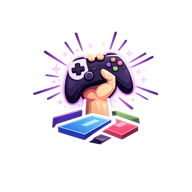
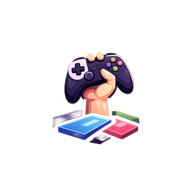
Lock status labels, trim themes, fix void exit
Status label: "Now Playing" -> "Playing Now". Reads more
natural in the cycle Backlog > Up Next > Playing Now >
Completed > Moved On.

Playing status icon: fire -> play triangle. The fire emoji
was colliding with the deep-cut time tier and didn't
communicate "active game" the way the play triangle does.

Theme picker trimmed from 13 to 8: kept dark, light, 80s,
90s, future, dino, cozy, void. Commented out weird and
ultra (stashed for later -- we still like ultra), tropical,
campfire, and minimal. CSS retained so we can bring any of
them back without a rewrite.

Void theme exit: the settings gear now renders in high-
contrast white when .theme-void is active, so users can
always find the way out. Do not let the abyss stare back.

App icon: swapped apple-icon and PWA icons to the
background-removed logomark (inventoryfull-logomark-alpha.png)
produced via rembg. Clean transparency, purple glow preserved.

diff --git a/components/SettingsMenu.tsx b/components/SettingsMenu.tsx
@@ -210,6 +210,7 @@ export default function SettingsMenu() {
     <div className="relative">
       <button
         onClick={() => setOpen(!open)}
+        data-settings-trigger="true"
         className="p-2 min-h-[44px] min-w-[44px] flex items-center justify-center rounded-lg text-text-dim hover:text-text-muted transition-colors"
         title="Settings"
       >
@@ -280,19 +281,23 @@ export default function SettingsMenu() {
                   <p className="text-sm text-text-faint font-[family-name:var(--font-mono)]">Theme</p>
                   <div className="flex flex-wrap gap-1">
                     {[
+                      // Active theme roster. CSS for hidden themes still lives
+                      // in globals.css — stashed for later, not deleted. When
+                      // bringing one back, add it here and it's live again.
                       { value: 'dark', label: '🌙 Dark' },
                       { value: 'light', label: '☀ Light' },
                       { value: '80s', label: '🌆 80s' },
                       { value: '90s', label: '🚧 90s' },
                       { value: 'future', label: '🔮 Future' },
                       { value: 'dino', label: '🦕 Dino' },
-                      { value: 'weird', label: '👁 Weird' },
-                      { value: 'ultra', label: '⚡ ULTRA' },
-                      { value: 'void', label: '🫥 Void' },
                       { value: 'cozy', label: '☕ Cozy' },
-                      { value: 'minimal', label: '- Minimal' },
-                      { value: 'tropical', label: '🌴 Tropical' },
-                      { value: 'campfire', label: '🔥 Campfire' },
+                      { value: 'void', label: '🫥 Void' },
+                      // Hidden for now (CSS retained in globals.css):
+                      //   { value: 'weird', label: '👁 Weird' },
+                      //   { value: 'ultra', label: '⚡ ULTRA' },       // stashed — Brady likes it, bring back later
+                      //   { value: 'minimal', label: '- Minimal' },
+                      //   { value: 'tropical', label: '🌴 Tropical' },
+                      //   { value: 'campfire', label: '🔥 Campfire' },
                     ].map((opt) => (
                       <button
                         key={opt.value}

diff --git a/app/globals.css b/app/globals.css
@@ -1653,6 +1653,22 @@ button:active:not(:disabled) {
   border-color: #444444 !important;
 }
 
+/* Void: the settings gear is the exit hatch. Keep it high-contrast so users
+   can always find their way back out. "Do not let the abyss stare back."   */
+.theme-void header button[data-settings-trigger="true"],
+.theme-void button[data-settings-trigger="true"] {
+  color: #ffffff !important;
+  border-color: #ffffff !important;
+  opacity: 0.95 !important;
+}
+.theme-void header button[data-settings-trigger="true"]:hover,
+.theme-void button[data-settings-trigger="true"]:hover {
+  color: #ffffff !important;
+  border-color: #ffffff !important;
+  background: rgba(255, 255, 255, 0.06) !important;
+  opacity: 1 !important;
+}
+
 /* Void: everything fades except the action */
 .theme-void h1 {
   color: #666666 !important;

diff --git a/lib/constants.ts b/lib/constants.ts
@@ -43,7 +43,7 @@ export const STATUS_CONFIG: Record<GameStatus, {
 }> = {
   buried: { label: 'Backlog', icon: '📚', asciiIcon: '[=]', color: '#64748b', bg: '#1e293b' },
   'on-deck': { label: 'Up Next', shortLabel: 'Next', icon: '🎯', asciiIcon: '>>>', color: '#38bdf8', bg: '#082f49' },
-  playing: { label: 'Now Playing', shortLabel: 'Playing', icon: '🔥', asciiIcon: '(~)', color: '#f59e0b', bg: '#422006' },
+  playing: { label: 'Playing Now', shortLabel: 'Playing', icon: '▶', asciiIcon: '(~)', color: '#f59e0b', bg: '#422006' },
   played: { label: 'Completed', icon: '✅', asciiIcon: '[x]', color: '#22c55e', bg: '#052e16' },
   bailed: { label: 'Moved On', icon: '👋', asciiIcon: '[!]', color: '#94a3b8', bg: '#1e293b' },
 };

diff --git a/app/apple-icon.tsx b/app/apple-icon.tsx
@@ -10,7 +10,7 @@ export const size = { width: 180, height: 180 };
 export const contentType = 'image/png';
 
 export default async function AppleIcon() {
-  const imgData = await readFile(join(process.cwd(), 'public/inventoryfull-logomark.png'));
+  const imgData = await readFile(join(process.cwd(), 'public/inventoryfull-logomark-alpha.png'));
   const base64 = imgData.toString('base64');
 
   return new ImageResponse(
